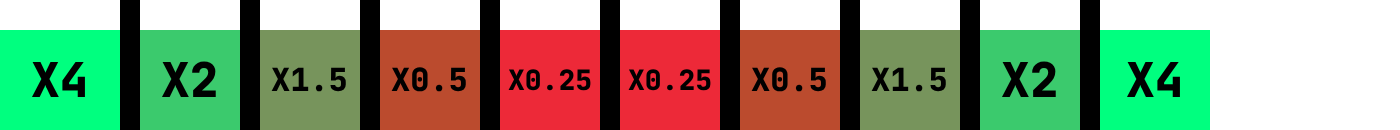
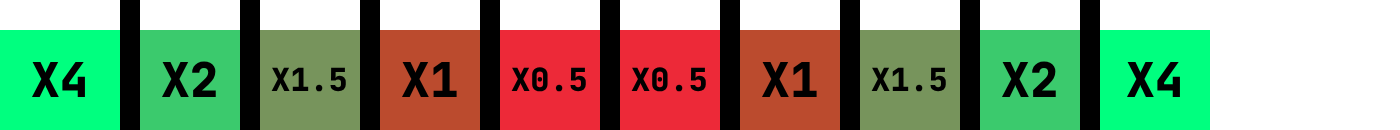
hopefully fix plinko

Changed region(s): [[0.2764, 0.4615, 0.6143, 0.7692]]

diff --git a/src/app/gamble/client.tsx b/src/app/gamble/client.tsx
@@ -1,21 +1,19 @@
 "use client";
 import { useGame } from "@/components/game/gameContextProvider";
 import { useEffect, useRef, useState } from "react";
-import Matter from "matter-js";
+import Matter, { Body } from "matter-js";
 
 export default function GamebleClient() {
   const { coins, multiplyCoins } = useGame();
   const canvasRef = useRef<HTMLCanvasElement>(null);
+  const puckRef = useRef<Matter.Body>(null);
 
   useEffect(() => {
-    multiplyCoins(2);
-
     // this is an aboslute nightmare... but it works.
     if (!canvasRef.current) return;
 
     let Engine = Matter.Engine;
     let Render = Matter.Render;
-    let Runner = Matter.Runner;
     let Bodies = Matter.Bodies;
     let Events = Matter.Events;
     let Composite = Matter.Composite;
@@ -39,10 +37,13 @@ export default function GamebleClient() {
     Matter.Render.setPixelRatio(render, "auto");
 
     let puck = Bodies.circle(100, 0, 10, {
-      restitution: 0.99,
+      restitution: 0.8,
       friction: 0,
       render: {},
     });
+
+    puckRef.current = puck;
+
     let walls: Matter.Body[] = [];
     walls.push(
       Bodies.rectangle(300, 704, 700, 10, {
@@ -135,62 +136,50 @@ export default function GamebleClient() {
 
       for (var i = 0, j = pairs.length; i != j; ++i) {
         var pair = pairs[i];
+        let puckBody: Matter.Body | null = null;
 
-        if (pair.bodyA === plinkoDetector) {
-          pair.bodyB.render.fillStyle = "#ff0000";
-          pair.bodyB.isStatic = true;
-          if (pair.bodyB.position.x < 60 || pair.bodyB.position.x > 540) {
+        if (pair.bodyA === plinkoDetector && !pair.bodyB.isStatic) {
+          puckBody = pair.bodyB;
+          console.log("a");
+        } else if (pair.bodyB === plinkoDetector && !pair.bodyA.isStatic) {
+          puckBody = pair.bodyA;
+          console.log("b");
+        }
+
+        if (puckBody) {
+          puckBody.render.fillStyle = "#ff0000";
+          puckBody.isStatic = true;
+
+          const x = puckBody.position.x;
+
+          if (x < 60 || x > 540) {
             multiplyCoins(4);
-          } else if (
-            (pair.bodyB.position.x > 60 && pair.bodyB.position.x < 120) ||
-            (pair.bodyB.position.x < 540 && pair.bodyB.position.x > 480)
-          ) {
+          } else if ((x > 60 && x < 120) || (x < 540 && x > 480)) {
             multiplyCoins(2);
-          } else if (
-            (pair.bodyB.position.x > 120 && pair.bodyB.position.x < 180) ||
-            (pair.bodyB.position.x < 480 && pair.bodyB.position.x > 420)
-          ) {
+          } else if ((x > 120 && x < 180) || (x < 480 && x > 420)) {
             multiplyCoins(1.5);
-          } else if (
-            (pair.bodyB.position.x > 180 && pair.bodyB.position.x < 240) ||
-            (pair.bodyB.position.x < 420 && pair.bodyB.position.x > 360)
-          ) {
+          } else if ((x > 180 && x < 240) || (x < 420 && x > 360)) {
+            multiplyCoins(1);
+          } else if (x > 240 && x < 360) {
             multiplyCoins(0.5);
-          } else if (
-            pair.bodyB.position.x > 240 &&
-            pair.bodyB.position.x < 360
-          ) {
-            multiplyCoins(0.25);
-          }
-        } else if (pair.bodyB === plinkoDetector) {
-          pair.bodyA.render.fillStyle = "#ff0000";
-          pair.bodyA.isStatic = true;
-          if (pair.bodyA.position.x < 60 || pair.bodyA.position.x > 540) {
-            multiplyCoins(4);
-          } else if (
-            (pair.bodyA.position.x > 60 && pair.bodyA.position.x < 120) ||
-            (pair.bodyA.position.x < 540 && pair.bodyA.position.x > 480)
-          ) {
-            multiplyCoins(2);
-          } else if (
-            (pair.bodyA.position.x > 120 && pair.bodyA.position.x < 180) ||
-            (pair.bodyA.position.x < 480 && pair.bodyA.position.x > 420)
-          ) {
-            multiplyCoins(1.5);
-          } else if (
-            (pair.bodyA.position.x > 180 && pair.bodyA.position.x < 240) ||
-            (pair.bodyA.position.x < 420 && pair.bodyA.position.x > 360)
-          ) {
-            multiplyCoins(0.5);
-          } else if (
-            pair.bodyA.position.x > 240 &&
-            pair.bodyA.position.x < 360
-          ) {
-            multiplyCoins(0.25);
           }
         }
       }
     });
+
+    const handleKeyPress = (event: KeyboardEvent) => {
+      if (event.code === "Space" && puckRef.current) {
+        event.preventDefault();
+
+        const randomX = Math.random() * 500 + 50;
+        Body.setPosition(puckRef.current, { x: randomX, y: 50 });
+        Body.setVelocity(puckRef.current, { x: 0, y: 0 });
+        Body.setAngularVelocity(puckRef.current, 0);
+        puckRef.current.isStatic = false;
+      }
+    };
+
+    window.addEventListener("keydown", handleKeyPress);
 
     Composite.add(engine.world, [
       plinkoTexture,
@@ -205,6 +194,12 @@ export default function GamebleClient() {
     setInterval(function () {
       Engine.update(engine, 1000 / 60);
     }, 1000 / 60);
+
+    return () => {
+      window.removeEventListener("keydown", handleKeyPress);
+      Render.stop(render);
+      Engine.clear(engine);
+    };
   }, []);
 
   return (

diff --git a/src/hooks/useGameState.ts b/src/hooks/useGameState.ts
@@ -68,17 +68,20 @@ const useGameState = () => {
     if (answer == currentQuestion.correctAnswer) {
       setAnsweredQuestionIds([...answeredQuestionIds, currentQuestion.index]);
       setAssignmentScore(assignmentScore + 1);
-      setCoins(coins + 1);
+      setCoins(prevCoins => prevCoins + 1);
       return true;
     } else {
-      setCoins(Math.max(coins - 1, 0));
+      setCoins(prevCoins => Math.max(prevCoins - 1, 0));
       return false;
     }
   };
 
   const multiplyCoins = (multiplier: number): void => {
-    console.log(coins);
-    setCoins(Math.floor(coins * multiplier));
+    console.log(multiplier);
+    setCoins((prevCoins) => {
+      console.log(prevCoins);
+      return Math.floor(prevCoins * multiplier);
+    });
   };
 
   return {
